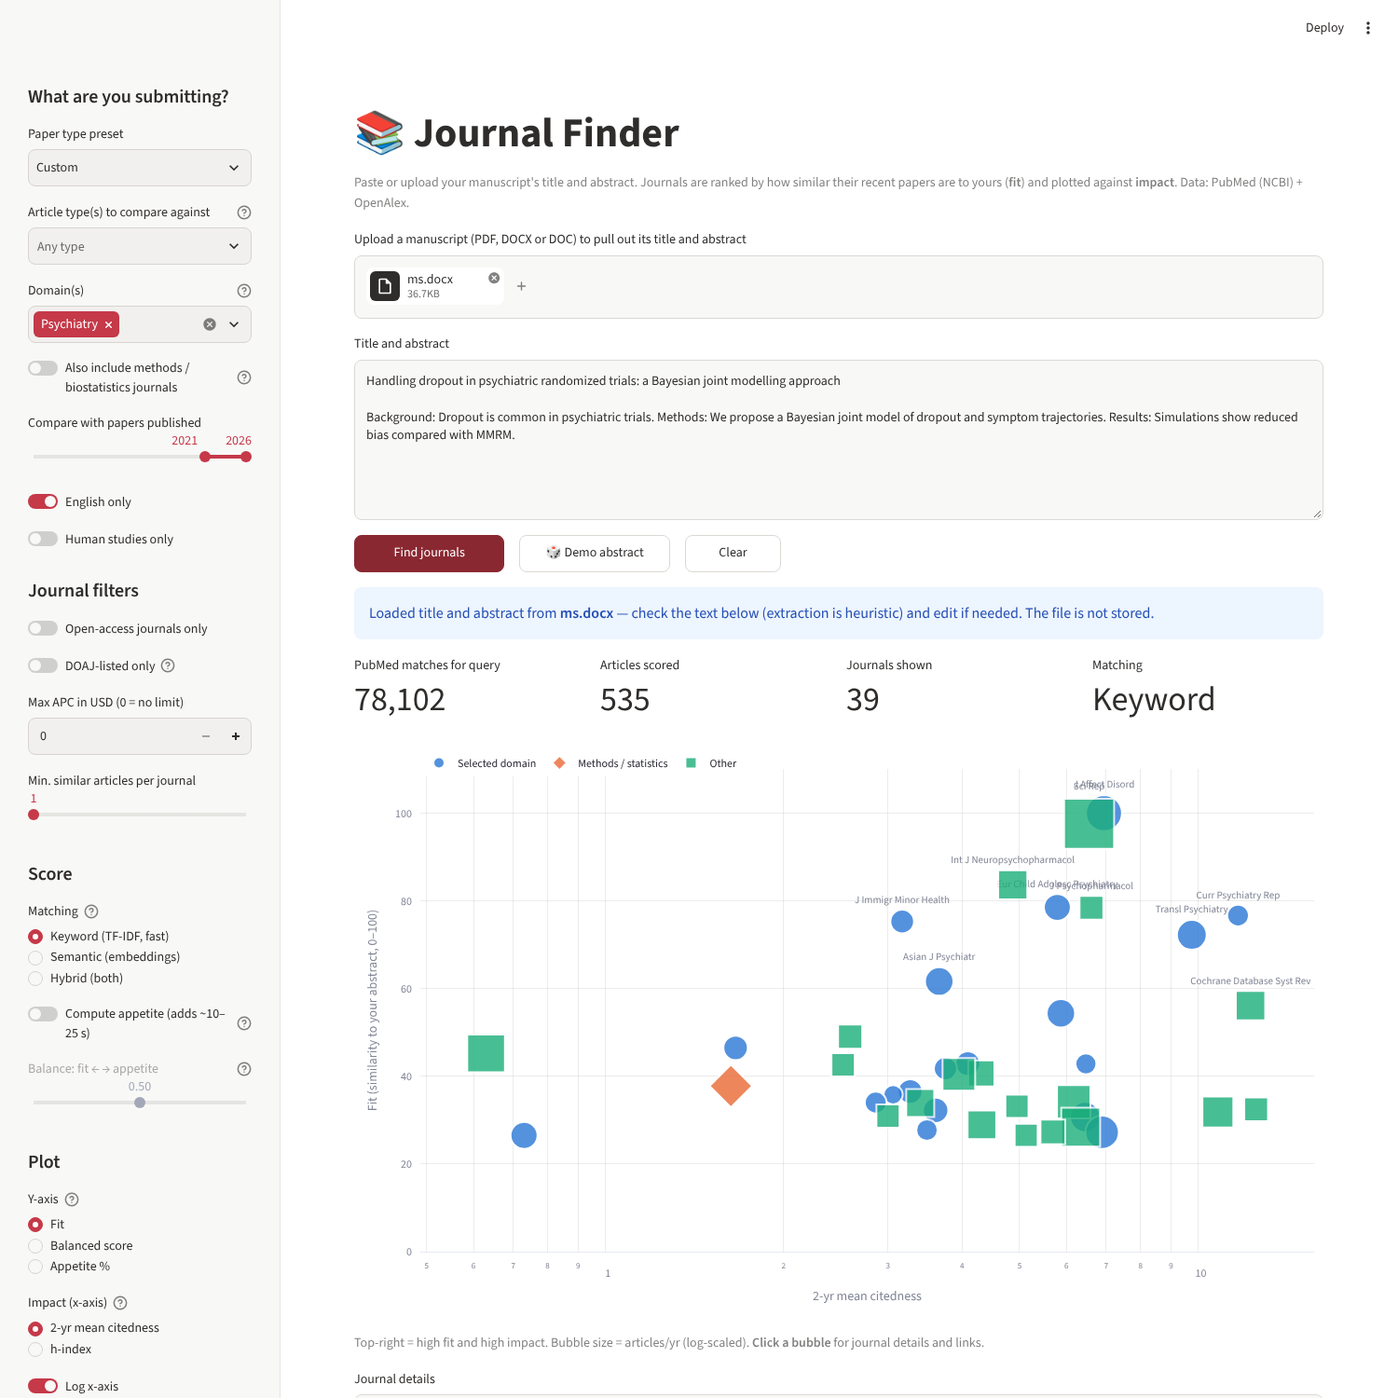
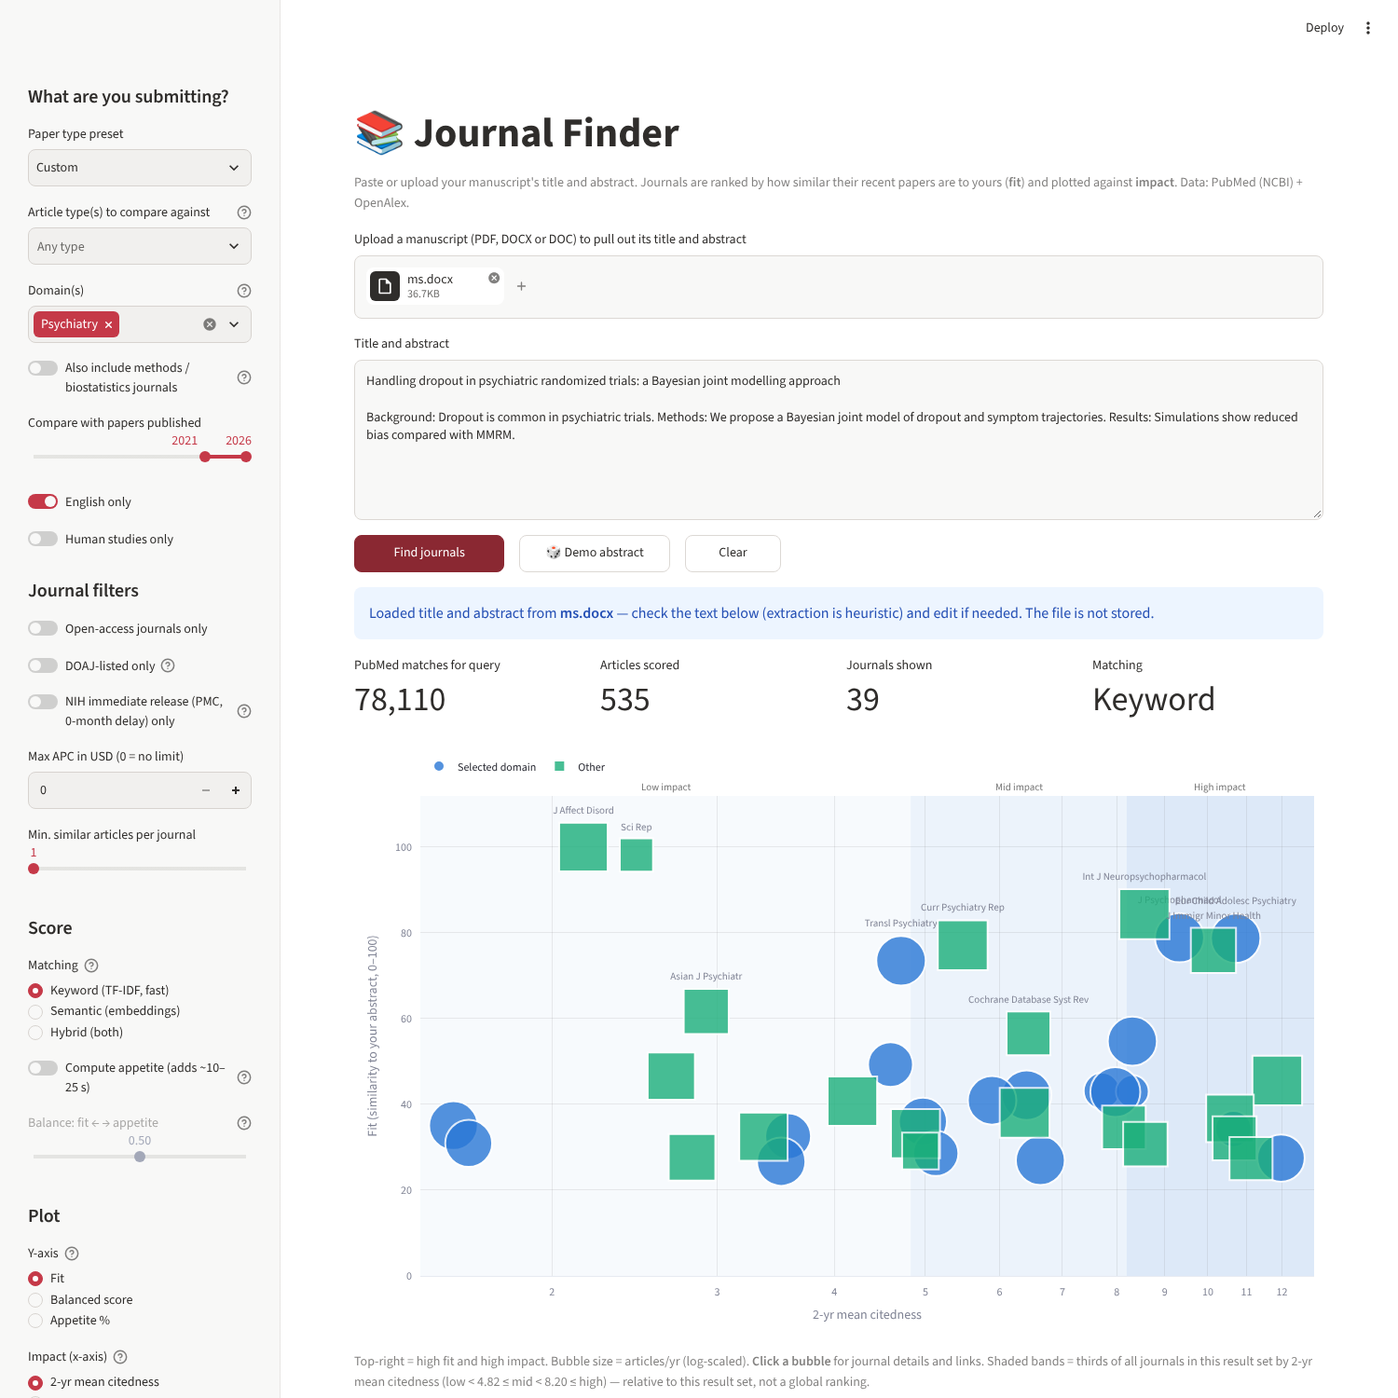
Add files via upload

diff --git a/app.py b/app.py
@@ -78,7 +78,7 @@ ss = st.session_state
 DEFAULTS = dict(
     abstract="", preset="Custom", types=[], domains=[], methods=False,
     years=(THIS_YEAR - 5, THIS_YEAR), english=True, humans=False,
-    oa_only=False, doaj_only=False, max_apc=0, min_sim=1,
+    oa_only=False, doaj_only=False, nih_only=False, max_apc=0, min_sim=1, bands=True,
     appetite=False, weight=0.5, matching="Keyword (TF-IDF, fast)",
     y_metric="Fit", impact_metric="2-yr mean citedness", log_x=True, size_metric="Articles/yr",
     demo=None, exclude_pmid="",
@@ -101,7 +101,7 @@ def state_to_params(include_abstract: bool) -> dict:
         "types": "|".join(ss.types), "domains": "|".join(ss.domains),
         "years": f"{ss.years[0]}-{ss.years[1]}", "methods": int(ss.methods),
         "en": int(ss.english), "hum": int(ss.humans), "oa": int(ss.oa_only),
-        "doaj": int(ss.doaj_only), "apc": ss.max_apc, "min": ss.min_sim,
+        "doaj": int(ss.doaj_only), "nih": int(ss.nih_only), "bands": int(ss.bands), "apc": ss.max_apc, "min": ss.min_sim,
         "app": int(ss.appetite), "w": ss.weight, "match": MATCHING[ss.matching],
         "y": ss.y_metric, "x": ss.impact_metric, "logx": int(ss.log_x), "size": ss.size_metric,
     }
@@ -125,7 +125,8 @@ def apply_query_params():
             a, b = (int(x) for x in q["years"].split("-"))
             ss.years = (max(2000, a), min(THIS_YEAR, b))
         for key, name in [("methods", "methods"), ("en", "english"), ("hum", "humans"),
-                          ("oa", "oa_only"), ("doaj", "doaj_only"), ("app", "appetite"),
+                          ("oa", "oa_only"), ("doaj", "doaj_only"), ("nih", "nih_only"),
+                          ("bands", "bands"), ("app", "appetite"),
                           ("logx", "log_x")]:
             if key in q:
                 ss[name] = q[key] == "1"
@@ -243,6 +244,12 @@ with st.sidebar:
     st.toggle("Open-access journals only", key="oa_only")
     st.toggle("DOAJ-listed only", key="doaj_only",
               help="Directory of Open Access Journals — screens out most predatory journals.")
+    st.toggle("NIH immediate release (PMC, 0-month delay) only", key="nih_only",
+              help="Keeps journals on the PMC Journal List with an active agreement and a release "
+                   "delay of 0 months: they deposit articles in PubMed Central on publication, which "
+                   "meets the 2024 NIH Public Access Policy with no action from you. Other journals "
+                   "can still be compliant if you deposit your accepted manuscript via NIHMS and "
+                   "the publisher allows zero embargo — check before submitting.")
     st.number_input("Max APC in USD (0 = no limit)", 0, 15000, step=500, key="max_apc")
     st.slider("Min. similar articles per journal", 1, 10, key="min_sim")
 
@@ -268,6 +275,8 @@ with st.sidebar:
              help="2-yr mean citedness is OpenAlex's free analogue of the Journal Impact Factor "
                   "(similar idea, different numbers).")
     st.toggle("Log x-axis", key="log_x")
+    st.toggle("Shade impact bands (low / mid / high)", key="bands",
+              help="Thirds of the journals in this result set, by the impact metric on the x-axis.")
     st.radio("Bubble size", ["Articles/yr", "Similar articles"], key="size_metric")
 
     with st.expander("Advanced"):
@@ -390,6 +399,22 @@ if ss.demo:
     hit = j[j.apply(lambda r: bool(d_issns & ({r["issn_l"], *r["issns"]})), axis=1)]
     actual_key = hit["jkey"].iloc[0] if len(hit) else None
 
+# impact bands: thirds of ALL journals in this result set (before journal filters), so a
+# journal keeps its band when you filter
+x_col = ss.impact_metric
+BAND_TINTS = {"Low": "rgba(42,120,214,0.04)", "Mid": "rgba(42,120,214,0.09)",
+              "High": "rgba(42,120,214,0.16)"}
+BAND_CELLS = {"Low": "#f3f7fd", "Mid": "#e6effb", "High": "#d4e3f7"}
+imp = j[x_col]
+cuts = None
+if imp.notna().sum() >= 6:
+    t1, t2 = imp.quantile(1 / 3), imp.quantile(2 / 3)
+    cuts = (t1, t2)
+    j["Impact band"] = np.where(imp.isna(), "", np.where(imp >= t2, "High",
+                                                         np.where(imp >= t1, "Mid", "Low")))
+else:
+    j["Impact band"] = ""
+
 j = j[j["Similar articles"] >= ss.min_sim]
 if ss.oa_only:
     j = j[j["Open access journal"] == True]  # noqa: E712
@@ -397,6 +422,13 @@ if ss.doaj_only:
     j = j[j["In DOAJ"] == True]  # noqa: E712
 if ss.max_apc:
     j = j[j["APC (USD)"].isna() | (j["APC (USD)"] <= ss.max_apc)]
+if ss.nih_only:
+    if "NIH / PMC" in j and (j["NIH / PMC"] != "Unknown").any():
+        j = j[j["NIH / PMC"].str.startswith("Immediate")]
+    else:
+        st.warning("NIH status couldn't be checked (PMC Journal List unavailable), so the NIH filter "
+                   "was not applied.")
+
 
 c1, c2, c3, c4 = st.columns(4)
 c1.metric("PubMed matches for query", f"{res['count']:,}")
@@ -407,7 +439,6 @@ c4.metric("Matching", {"tfidf": "Keyword", "semantic": "Semantic", "hybrid": "Hy
 y_col = Y_COLS[ss.y_metric] if has_app else "Fit"
 if not has_app and ss.y_metric != "Fit":
     st.caption("Turn on **Compute appetite** to plot balanced score or appetite — showing fit.")
-x_col = ss.impact_metric
 plot_df = j.dropna(subset=[x_col, y_col]).copy()
 if ss.log_x:
     plot_df = plot_df[plot_df[x_col] > 0]
@@ -428,7 +459,8 @@ else:
                         for a, n, k in zip(plot_df["Abbrev"], plot_df["Journal"], plot_df["jkey"])]
     hover = {"_size": False, "label": False, "Group": False, "Fit": ":.0f", x_col: ":.2f",
              "Similar articles": True, "Articles/yr": ":.0f", "Main subfield": True,
-             "Open access journal": True, "APC (USD)": True, "Publisher": True}
+             "Open access journal": True, "APC (USD)": True, "Publisher": True,
+             "NIH / PMC": True, "Impact band": True}
     if has_app:
         hover.update({"Balanced": ":.0f", "Appetite %": ":.1f"})
     fig = px.scatter(
@@ -439,13 +471,32 @@ else:
     )
     fig.update_traces(textposition="top center", textfont_size=11,
                       marker=dict(opacity=0.8, line=dict(width=2, color="white")))
+    if ss.bands and cuts:
+        lo, hi = plot_df[x_col].min(), plot_df[x_col].max()
+        if ss.log_x:
+            lo = max(lo, 1e-3)
+        conv = (lambda v: np.log10(v)) if ss.log_x else (lambda v: v)
+        pad = (conv(hi) - conv(lo)) * 0.04 or 0.1
+        left, right = conv(lo) - pad, conv(hi) + pad
+        bounds = [left, conv(cuts[0]), conv(cuts[1]), right]
+        for (name, tint), a, b in zip(BAND_TINTS.items(), bounds[:-1], bounds[1:]):
+            x0, x1 = max(a, left), min(b, right)
+            if x1 <= x0:
+                continue  # no journals in view fall in this band
+            fig.add_vrect(x0=10 ** x0 if ss.log_x else x0, x1=10 ** x1 if ss.log_x else x1,
+                          fillcolor=tint, opacity=1, line_width=0, layer="below")
+            fig.add_annotation(xref="x", yref="paper", x=(x0 + x1) / 2, y=1.0, yanchor="bottom",
+                               text=f"{name} impact", showarrow=False,
+                               font=dict(size=11, color="rgba(110,110,110,0.95)"))
+        edges = [left, right]
+        fig.update_xaxes(range=[edges[0], edges[-1]])
     if actual_key and actual_key in set(plot_df["jkey"]):
         r = plot_df[plot_df["jkey"] == actual_key].iloc[0]
         fig.add_annotation(x=np.log10(r[x_col]) if ss.log_x else r[x_col], y=r[y_col],
                            text="★ actually published here", showarrow=True, arrowhead=2, ax=60,
                            ay=-40, font=dict(size=12))
-    fig.update_layout(height=620, legend_title_text="", margin=dict(t=30, r=10, b=10, l=10),
-                      legend=dict(orientation="h", y=1.04, x=0), clickmode="event+select")
+    fig.update_layout(height=640, legend_title_text="", margin=dict(t=60, r=10, b=10, l=10),
+                      legend=dict(orientation="h", y=1.09, x=0), clickmode="event+select")
     fig.update_xaxes(showgrid=True, gridcolor="rgba(128,128,128,0.15)")
     fig.update_yaxes(showgrid=True, gridcolor="rgba(128,128,128,0.15)", rangemode="tozero")
     event = st.plotly_chart(fig, width="stretch", on_select="rerun", selection_mode="points",
@@ -453,9 +504,12 @@ else:
     pts = (event or {}).get("selection", {}).get("points", []) if event else []
     if pts and pts[0].get("customdata"):
         selected_key = pts[0]["customdata"][0]
+    band_note = (f" Shaded bands = thirds of all journals in this result set by {x_col.lower()} (low < {cuts[0]:.2f} ≤ "
+                 f"mid < {cuts[1]:.2f} ≤ high) — relative to this result set, not a global ranking."
+                 if ss.bands and cuts else "")
     st.caption(f"Top-right = high {Y_LABELS[y_col].split(' (')[0].lower()} and high impact. Bubble "
                f"size = {ss.size_metric.lower()} (log-scaled). **Click a bubble** for journal details "
-               "and links.")
+               f"and links.{band_note}")
 
 # ------------------------------------------------------------------ journal detail card
 journal_names = j["Journal"].tolist()
@@ -476,14 +530,22 @@ if pick != "—":
                  f"Main subfield: {r['Main subfield']}" if isinstance(r["Main subfield"], str) else "",
                  "Open-access journal" if r["Open access journal"] == True else "",  # noqa: E712
                  "In DOAJ" if r["In DOAJ"] == True else "",  # noqa: E712
-                 f"APC: ${r['APC (USD)']:,.0f}" if pd.notna(r["APC (USD)"]) else ""]
+                 f"APC: ${r['APC (USD)']:,.0f}" if pd.notna(r["APC (USD)"]) else "",
+                 f"{r['Impact band']} impact (within these results)" if r.get("Impact band") else ""]
         st.caption(" · ".join(f for f in facts if f))
+        nih = r.get("NIH / PMC", "Unknown")
+        nih_text = core.NIH_STATUS_HELP.get(nih, "PMC Journal List couldn't be checked.")
+        icon = "✅" if str(nih).startswith("Immediate") else ("⏳" if nih == "Delayed" else "ℹ")
+        st.markdown(f"{icon} **NIH public access: {nih}**"
+                    + (f" ({r['PMC delay']})" if r.get("PMC delay") else "") + f" — {nih_text}")
         links = []
         if isinstance(r["Homepage"], str) and r["Homepage"]:
             links.append(f"[Journal homepage]({r['Homepage']})")
         links.append(f"[NLM Catalog]({r['NLM Catalog']})")
         q = (r["Journal"] + " author guidelines").replace(" ", "+")
         links.append(f"[Find author guidelines](https://duckduckgo.com/?q={q})")
+        if r.get("PMC URL"):
+            links.append(f"[PMC Journal List entry]({r['PMC URL']})")
         if isinstance(r["openalex_id"], str):
             links.append(f"[OpenAlex]({r['openalex_id']})")
         links.append("[Its similar papers](https://pubmed.ncbi.nlm.nih.gov/?term="
@@ -504,12 +566,22 @@ if ss.demo:
 # ------------------------------------------------------------------ table
 st.subheader("Ranked journals")
 cols = ["Journal", "Group", "Balanced", "Fit", "Appetite %", "Your-type papers", "Total papers",
-        "Similar articles", "2-yr mean citedness", "h-index", "Articles/yr", "Main subfield",
-        "Open access journal", "In DOAJ", "APC (USD)", "Publisher", "Homepage", "NLM Catalog"]
+        "Similar articles", "2-yr mean citedness", "Impact band", "h-index", "Articles/yr",
+        "NIH / PMC", "PMC delay", "Main subfield", "Open access journal", "In DOAJ", "APC (USD)",
+        "Publisher", "Homepage", "NLM Catalog"]
 app_cols = {"Balanced", "Appetite %", "Your-type papers", "Total papers"}
 cols = [c for c in cols if c in j and (c not in app_cols or has_app)]
-st.dataframe(j[cols], hide_index=True, width="stretch",
+table = j[cols].reset_index(drop=True)
+styled = table.style.map(
+    lambda v: f"background-color: {BAND_CELLS[v]}; color: #1f2933" if v in BAND_CELLS else "",
+    subset=["Impact band"]).format(precision=2, subset=[c for c in ["2-yr mean citedness"] if c in table])
+st.dataframe(styled, hide_index=True, width="stretch",
              column_config={
+                 "NIH / PMC": st.column_config.TextColumn(
+                     help="From the PMC Journal List. 'Immediate' = deposits in PMC on publication "
+                          "(meets the 2024 NIH policy automatically)."),
+                 "Impact band": st.column_config.TextColumn(
+                     help="Thirds of the journals in this result set by the x-axis impact metric."),
                  "Fit": st.column_config.ProgressColumn("Fit", min_value=0, max_value=100, format="%.0f"),
                  "Balanced": st.column_config.ProgressColumn("Balanced", min_value=0, max_value=100,
                                                              format="%.0f"),
@@ -519,6 +591,10 @@ st.dataframe(j[cols], hide_index=True, width="stretch",
                  "Articles/yr": st.column_config.NumberColumn(format="%.0f"),
                  "Homepage": st.column_config.LinkColumn(display_text="homepage"),
                  "NLM Catalog": st.column_config.LinkColumn(display_text="catalog")})
+st.caption("NIH / PMC: ✅ *Immediate* journals deposit in PubMed Central on publication — "
+           "NIH-compliant with no action from you. Others may still be compliant if you deposit your "
+           "accepted manuscript via NIHMS and the publisher allows zero embargo; check before "
+           "submitting. Source: PMC Journal List (updated daily).")
 st.download_button("Download CSV", j.drop(columns=["issns", "pmids"]).to_csv(index=False),
                    "journal_fit.csv", "text/csv")
 

diff --git a/core.py b/core.py
@@ -12,6 +12,8 @@ Pipeline
 """
 from __future__ import annotations
 
+import io
+import os
 import re
 import time
 import xml.etree.ElementTree as ET
@@ -542,6 +544,112 @@ def balanced_score(j: pd.DataFrame, weight: float = 0.5) -> pd.Series:
 
 
 # --------------------------------------------------------------------------------------
+# NIH Public Access Policy (2024, zero embargo): PMC Journal List
+# --------------------------------------------------------------------------------------
+PMC_JLIST_URL = "https://cdn.ncbi.nlm.nih.gov/pmc/home/jlist.csv"
+_PMC_CACHE: dict = {}
+
+NIH_STATUS_HELP = {
+    "Immediate – all articles": "Journal deposits the final version of every article in PMC on "
+                                "publication. NIH-compliant with no action from you.",
+    "Immediate – NIH-funded": "Journal deposits NIH-funded articles in PMC on publication. "
+                              "NIH-compliant with no action from you.",
+    "Delayed": "Journal deposits in PMC, but only after an embargo. Not compliant by itself: you "
+               "must deposit your accepted manuscript via NIHMS (if the publisher allows zero "
+               "embargo) or pay for open access.",
+    "Not in PMC list": "No PMC deposit agreement. You must deposit your accepted manuscript via "
+                       "NIHMS yourself; check the publisher allows zero-embargo deposit (fully "
+                       "open-access journals always do).",
+}
+
+
+def _col(df: pd.DataFrame, *names: str) -> str | None:
+    """Find a column by any of several names (the CSV headers changed in 2024)."""
+    low = {c.lower().strip(): c for c in df.columns}
+    for n in names:
+        for lc, c in low.items():
+            if lc.startswith(n.lower()):
+                return c
+    return None
+
+
+def _delay_months(v) -> float:
+    v = str(v or "").lower()
+    if "immediate" in v:
+        return 0.0
+    m = re.search(r"(\d+)", v)
+    return float(m.group(1)) if m else np.nan
+
+
+def parse_pmc_jlist(csv_text: str) -> dict[str, dict]:
+    """{ISSN: {'NIH / PMC': status, 'PMC delay': text, 'PMC URL': url}} from the PMC Journal List."""
+    df = pd.read_csv(io.StringIO(csv_text), dtype=str).fillna("")
+    c_p = _col(df, "ISSN (print)", "pISSN")
+    c_e = _col(df, "ISSN (online)", "eISSN")
+    c_delay = _col(df, "Release Delay", "Free access")
+    c_status = _col(df, "Agreement Status", "Deposit status")
+    c_agree = _col(df, "Agreement to Deposit", "Participation level")
+    c_url = _col(df, "PMC URL", "Journal URL")
+    if not (c_delay and (c_p or c_e)):
+        raise ValueError("PMC Journal List format not recognised")
+    out: dict[str, dict] = {}
+    for _, r in df.iterrows():
+        status = (r[c_status] if c_status else "").strip()
+        active = status == "" or status.lower() == "active"
+        if not active:
+            continue  # ceased / predecessor titles
+        months = _delay_months(r[c_delay])
+        agree = (r[c_agree] if c_agree else "").lower()
+        if months == 0:
+            label = "Immediate – NIH-funded" if "nih" in agree else "Immediate – all articles"
+        else:
+            label = "Delayed"
+        info = {"NIH / PMC": label, "PMC delay": r[c_delay].strip(),
+                "PMC URL": r[c_url].strip() if c_url else ""}
+        for c in (c_p, c_e):
+            issn = (r[c] if c else "").strip().upper()
+            if issn:
+                prev = out.get(issn)
+                if prev is None or prev["NIH / PMC"] == "Delayed":  # prefer an immediate record
+                    out[issn] = info
+    return out
+
+
+def pmc_journal_list(client: Client, ttl: float = 24 * 3600) -> dict[str, dict]:
+    """Download (and cache for a day) the PMC Journal List."""
+    if _PMC_CACHE.get("data") is not None and time.time() - _PMC_CACHE["t"] < ttl:
+        return _PMC_CACHE["data"]
+    local = os.environ.get("PMC_JLIST_FILE", "pmc_jlist.csv")  # optional manual copy / backup
+    if os.path.exists(local):
+        with open(local, encoding="utf-8-sig", errors="replace") as f:
+            text = f.read()
+    else:
+        r = client.s.get(PMC_JLIST_URL, timeout=60)
+        r.raise_for_status()
+        text = r.content.decode("utf-8-sig", errors="replace")
+    data = parse_pmc_jlist(text)
+    _PMC_CACHE.update(data=data, t=time.time())
+    return data
+
+
+def attach_pmc(journals: pd.DataFrame, pmc: dict[str, dict] | None) -> pd.DataFrame:
+    j = journals.copy()
+    rank = {"Immediate – all articles": 0, "Immediate – NIH-funded": 1, "Delayed": 2}
+    labels, delays, urls = [], [], []
+    for _, r in j.iterrows():
+        if pmc is None:
+            labels.append("Unknown"); delays.append(""); urls.append("")
+            continue
+        cands = [pmc[i.upper()] for i in [r["issn_l"], *r["issns"]] if i and i.upper() in pmc]
+        best = min(cands, key=lambda c: rank[c["NIH / PMC"]]) if cands else None
+        labels.append(best["NIH / PMC"] if best else "Not in PMC list")
+        delays.append(best["PMC delay"] if best else "")
+        urls.append(best["PMC URL"] if best else "")
+    j["NIH / PMC"], j["PMC delay"], j["PMC URL"] = labels, delays, urls
+    return j
+
+
+# --------------------------------------------------------------------------------------
 # One-call convenience
 # --------------------------------------------------------------------------------------
 def random_article(
@@ -627,6 +735,11 @@ def find_journals(
     except (OpenAlexLimit, requests.RequestException) as e:
         sources, warning = {}, f"Impact / size / open-access data unavailable: {e}"
     journals = attach_openalex(journals, sources)
+    try:
+        journals = attach_pmc(journals, pmc_journal_list(client))
+    except Exception as e:  # list unreachable or format changed
+        journals = attach_pmc(journals, None)
+        warning = (warning + " " if warning else "") + f"PMC Journal List unavailable ({e}); NIH status unknown."
     if appetite:
         journals = add_appetite(client, journals, types, domains, year_from, year_to)
     return {"query": query, "count": count, "articles": articles, "journals": journals,

diff --git a/README.md b/README.md
@@ -31,7 +31,34 @@ papers match yours. Each journal is plotted with:
   plus a box to exclude yourself and your co-authors. Always check for conflicts of interest.
 - **🔗 Shareable links**: a URL that restores all the filters, and optionally the abstract
   (compressed), which re-runs the search when opened. Leave the abstract out for unpublished work.
+- **NIH public access status** for each journal, plus a filter (see below).
+- **Impact bands**: soft shading on the plot and a table column splitting the journals into thirds
+  (low / mid / high) by the x-axis impact metric. The cut points are the tertiles of *all journals in
+  the current result set*, worked out before journal filters run so a journal keeps its band when
+  you filter. They're relative guidance, not a global ranking.
 - Ranked table plus CSV downloads for journals and reviewers.
+
+## NIH Public Access Policy (2024, zero embargo)
+
+Since 1 July 2025, NIH-funded papers must be freely available in PubMed Central **on the date of
+publication**, with no embargo. The app checks each journal against the
+[PMC Journal List](https://pmc.ncbi.nlm.nih.gov/journals/), downloaded from
+`https://cdn.ncbi.nlm.nih.gov/pmc/home/jlist.csv` and cached for a day:
+
+| Status | Meaning |
+|---|---|
+| ✅ **Immediate – all articles** | Active agreement, 0-month release delay: every article goes to PMC on publication. Compliant with no action from you. |
+| ✅ **Immediate – NIH-funded** | Same, for NIH-funded articles. Compliant with no action from you. |
+| ⏳ **Delayed** | Deposits in PMC, but after an embargo. Not compliant by itself: deposit your accepted manuscript via NIHMS (if the publisher allows zero embargo) or pay for open access. |
+| ℹ **Not in PMC list** | No deposit agreement. Deposit your accepted manuscript via NIHMS yourself, after checking that the publisher allows zero-embargo deposit (fully open-access journals always do). |
+
+The **"NIH immediate release only"** filter keeps the two ✅ groups. Journals outside them can still
+be fine for NIH-funded work, but you have to check the publisher's policy. Several large publishers
+now require paid open access for zero-embargo compliance. Your library's public-access guide is the
+best source for publisher-level policies.
+
+If the list can't be downloaded, the status shows *Unknown* and the filter is skipped with a warning.
+As a backup you can save the CSV as `pmc_jlist.csv` next to `app.py`, but remember it goes stale.
 
 ## Semantic matching
 
